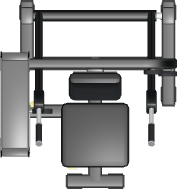
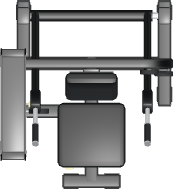
v2.9.6: 시티드 딥 타워를 조금 더 얇게 (15cm)

diff --git a/js/catalog.js b/js/catalog.js
@@ -86,7 +86,7 @@ T('latpull', '랫풀다운', 'machine', 1.2, 1.43, 2.25, [0.9, 0.15, 0.6, 0.6], 
 T('longpull', '롱풀', 'machine', 0.85, 2.22, 2.27, [0.5, 0.15, 0.5, 0.5], {kw:'시티드 케이블 로우 롱풀 row'});
 T('latlong', '랫풀다운 & 롱풀', 'machine', 1.58, 2.01, 2.24, [0.6, 0.15, 0.6, 0.6], {kw:'겸용 랫풀 롱풀'});
 T('seatedrow', '시티드 로우', 'machine', 0.87, 1.29, 1.94, [0.6, 0.15, 0.6, 0.6], {kw:'로우 등 seated row'});
-T('seateddip', '시티드 딥', 'machine', 1.04, 1.11, 1.48, [0.6, 0.15, 0.6, 0.6], {kw:'딥스 삼두 dip'});
+T('seateddip', '시티드 딥', 'machine', 1.02, 1.11, 1.48, [0.6, 0.15, 0.6, 0.6], {kw:'딥스 삼두 dip'});
 T('assistdip', '어시스트 친딥', 'machine', 1.15, 1.28, 2.19, [0.8, 0.15, 0.5, 0.5], {kw:'어시스트 풀업 친업 딥 assist'});
 T('armcurl', '암컬', 'machine', 1.06, 1.32, 1.55, [0.6, 0.15, 0.5, 0.5], {kw:'이두 암컬 biceps curl'});
 T('triceps', '트라이셉스 익스텐션', 'machine', 1.04, 1.06, 1.4, [0.6, 0.15, 0.5, 0.5], {kw:'삼두 triceps'});

diff --git a/sw.js b/sw.js
@@ -4,7 +4,7 @@
                       not have yet (about 20 MB stayed put instead of being fetched again each time). They are still asked for
                       from the site first, so a changed picture or model arrives when online.
    MODELS (kept)      3D libraries and files that never change under the same address: cache first. */
-const CACHE = 'gofit-planner-v3.11.5', ASSETS = 'gofit-assets-v1', MODELS = 'gofit-models-v2';
+const CACHE = 'gofit-planner-v3.11.6', ASSETS = 'gofit-assets-v1', MODELS = 'gofit-models-v2';
 const FILES = [
   './', 'index.html', 'manifest.webmanifest', 'css/app.css',
   'js/core.js', 'js/catalog.js', 'js/media.js', 'vendor/three.min.js', 'vendor/OrbitControls.js', 'js/m3-parts.js', 'js/m3-models-a.js', 'js/m3-models-b.js', 'js/render3d.js', 'js/symbols.js', 'js/plan.js', 'js/checks.js', 'js/ui.js', 'js/overlay.js', 'js/tools.js', 'js/panels.js', 'js/export.js', 'js/viewer3d.js', 'js/view3d.js', 'js/backup.js', 'js/wizard.js', 'js/app.js',

diff --git a/js/core.js b/js/core.js
@@ -2,7 +2,7 @@
 (function () {
 'use strict';
 const GP = window.GP = window.GP || {};
-GP.VERSION = '2.9.5';
+GP.VERSION = '2.9.6';
 GP.errors = [];
 window.addEventListener('error', e => { GP.errors.push(String(e.message || e)); });
 window.addEventListener('unhandledrejection', e => { GP.errors.push('promise: ' + String(e.reason && e.reason.message || e.reason)); });
